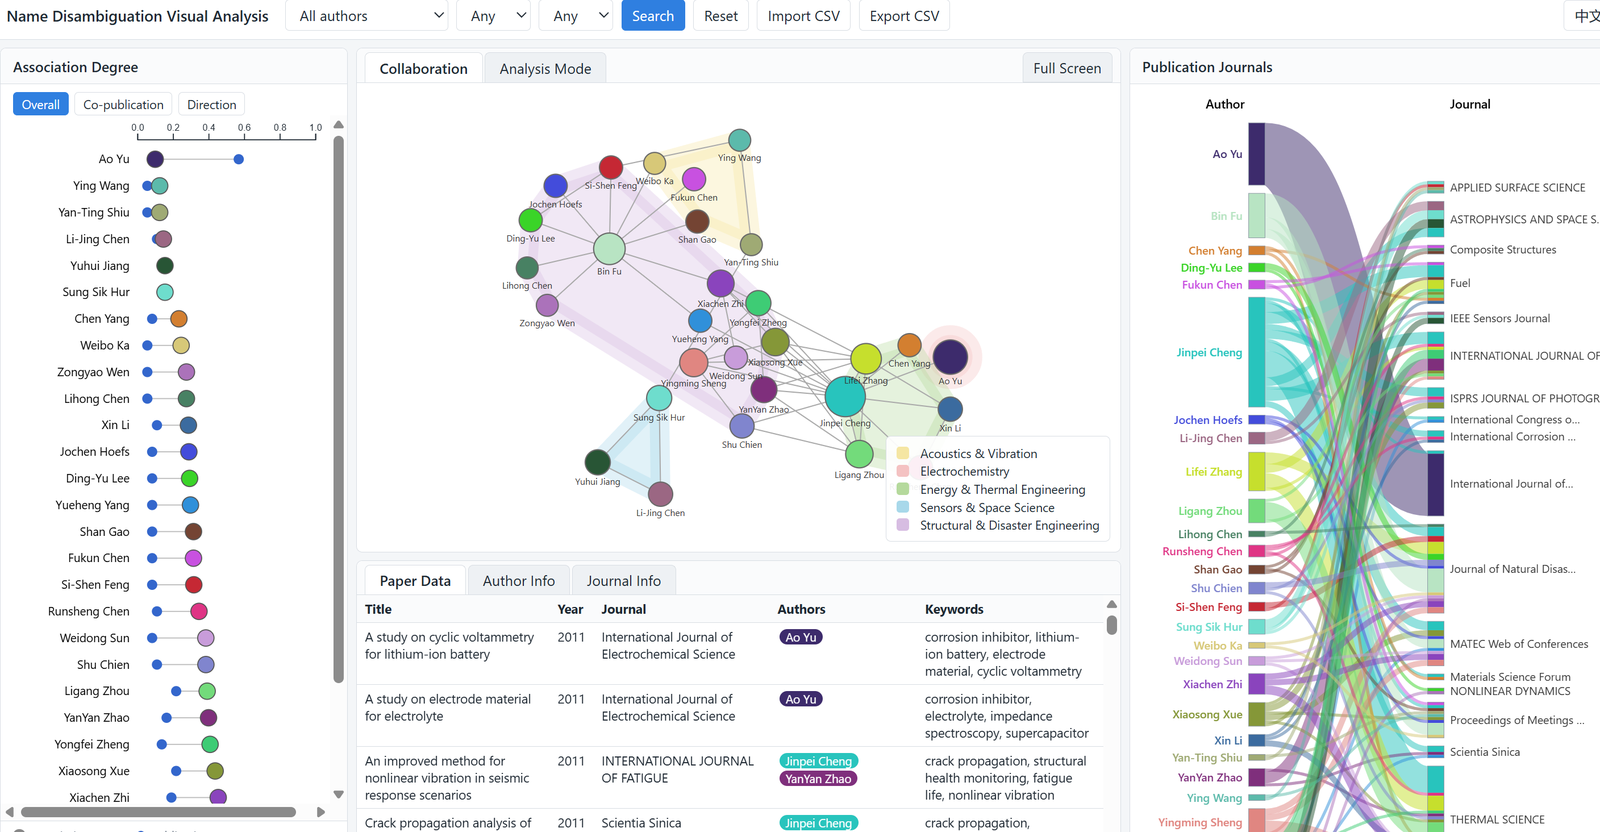
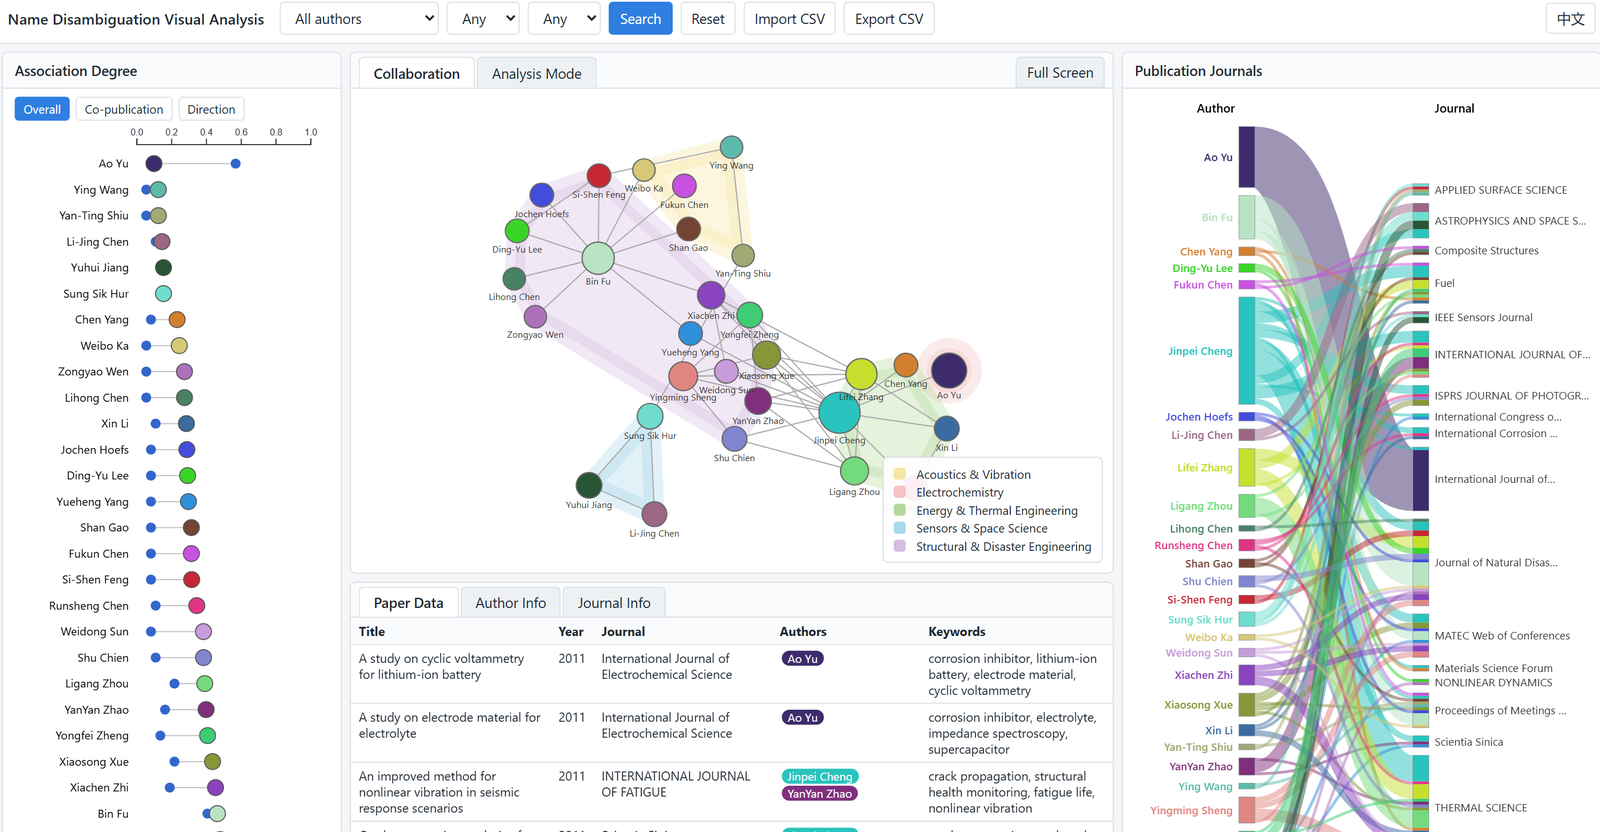
Experience: high-resolution lightbox images
Every tile's lightbox now opens images/hd/<name>, about 2800 px wide,
while the tile thumbnails stay at 1600 px (the HD files load only on
click). Vector paper figures are re-rendered from the PDFs at the same
crop; MVMA-GCN and DualChannel, rasters in their papers, are redrawn.
The Visual Analysis demo is re-captured, so its thumbnail is replaced
to match.

diff --git a/_includes/research.md b/_includes/research.md
@@ -1,6 +1,6 @@
 ## Experience
 
-<div class="paper-box"><div class="paper-box-image"><a class="img-zoom" href="/images/timeroute.png"><img src="/images/timeroute.png" alt="TimeRoute" width="1600" height="908"></a></div>
+<div class="paper-box"><div class="paper-box-image"><a class="img-zoom" href="/images/hd/timeroute.png"><img src="/images/timeroute.png" alt="TimeRoute" width="1600" height="908"></a></div>
 <div class="paper-box-text" markdown="1">
 
 **TimeRoute** ``Under review``
@@ -15,7 +15,7 @@ Which modality matters for a purchase changes over time and differs from user to
 </div>
 </div>
 
-<div class="paper-box"><div class="paper-box-image"><a class="img-zoom" href="/images/time_imprint.png"><img src="/images/time_imprint.png" alt="Time Imprint" width="1600" height="1094" loading="lazy"></a></div>
+<div class="paper-box"><div class="paper-box-image"><a class="img-zoom" href="/images/hd/time_imprint.png"><img src="/images/time_imprint.png" alt="Time Imprint" width="1600" height="1094" loading="lazy"></a></div>
 <div class="paper-box-text" markdown="1">
 
 **Time Imprint** ``Under review``
@@ -30,7 +30,7 @@ Some entities have almost the same text and images, like Napoleon Bonaparte and 
 </div>
 </div>
 
-<div class="paper-box"><div class="paper-box-image"><a class="img-zoom" href="/images/Select-Dont-Train.png"><img src="/images/Select-Dont-Train.png" alt="Select, Don't Train" width="1600" height="898" loading="lazy"></a></div>
+<div class="paper-box"><div class="paper-box-image"><a class="img-zoom" href="/images/hd/Select-Dont-Train.png"><img src="/images/Select-Dont-Train.png" alt="Select, Don't Train" width="1600" height="898" loading="lazy"></a></div>
 <div class="paper-box-text" markdown="1">
 
 **Select, Don't Train** ``ISWC 2026``
@@ -45,7 +45,7 @@ Dual-encoders force candidate retrieval and fine-grained selection into one embe
 </div>
 </div>
 
-<div class="paper-box"><div class="paper-box-image"><a class="img-zoom" href="/images/fusion_training.png"><img src="/images/fusion_training.png" alt="Fusion Training" width="1600" height="904" loading="lazy"></a></div>
+<div class="paper-box"><div class="paper-box-image"><a class="img-zoom" href="/images/hd/fusion_training.png"><img src="/images/fusion_training.png" alt="Fusion Training" width="1600" height="904" loading="lazy"></a></div>
 <div class="paper-box-text" markdown="1">
 
 **Fusion Training** ``ACL 2026 SRW``
@@ -60,7 +60,7 @@ Hybrid models like Qwen3 can answer quickly or think step by step with the same 
 </div>
 </div>
 
-<div class="paper-box"><div class="paper-box-image"><a class="img-zoom" href="/images/beyond_images.png"><img src="/images/beyond_images.png" alt="Beyond Images" width="1600" height="903" loading="lazy"></a></div>
+<div class="paper-box"><div class="paper-box-image"><a class="img-zoom" href="/images/hd/beyond_images.png"><img src="/images/beyond_images.png" alt="Beyond Images" width="1600" height="903" loading="lazy"></a></div>
 <div class="paper-box-text" markdown="1">
 
 **Beyond Images** ``ESWC 2026``
@@ -75,7 +75,7 @@ Curated image sets leave out ambiguous pictures such as logos and symbols, becau
 </div>
 </div>
 
-<div class="paper-box"><div class="paper-box-image"><a class="img-zoom" href="/images/graph_tempcz.png"><img src="/images/graph_tempcz.png" alt="Graph-TempCZ" width="1184" height="328" loading="lazy"></a></div>
+<div class="paper-box"><div class="paper-box-image"><a class="img-zoom" href="/images/hd/graph_tempcz.png"><img src="/images/graph_tempcz.png" alt="Graph-TempCZ" width="1184" height="328" loading="lazy"></a></div>
 <div class="paper-box-text" markdown="1">
 
 **Graph-TempCZ** ``LREC 2026``
@@ -90,7 +90,7 @@ Existing software-mention data has no graph structure and no time axis. With Con
 </div>
 </div>
 
-<div class="paper-box"><div class="paper-box-image"><a class="img-zoom" href="/images/graph_learning_challenges.png"><img src="/images/graph_learning_challenges.png" alt="Graph Learning Challenges" width="1600" height="1204" loading="lazy"></a></div>
+<div class="paper-box"><div class="paper-box-image"><a class="img-zoom" href="/images/hd/graph_learning_challenges.png"><img src="/images/graph_learning_challenges.png" alt="Graph Learning Challenges" width="1600" height="1204" loading="lazy"></a></div>
 <div class="paper-box-text" markdown="1">
 
 **Graph Learning Challenges** ``ESWA 2026``
@@ -105,7 +105,7 @@ Real graph data often has missing parts, is imbalanced, comes from different dom
 </div>
 </div>
 
-<div class="paper-box"><div class="paper-box-image"><a class="img-zoom" href="/images/understanding_el.png"><img src="/images/understanding_el.png" alt="Understanding Entity Linking" width="1600" height="900" loading="lazy"></a></div>
+<div class="paper-box"><div class="paper-box-image"><a class="img-zoom" href="/images/hd/understanding_el.png"><img src="/images/understanding_el.png" alt="Understanding Entity Linking" width="1600" height="900" loading="lazy"></a></div>
 <div class="paper-box-text" markdown="1">
 
 **Understanding Entity Linking** ``EKAW 2024``
@@ -120,7 +120,7 @@ Network analysis of tweets depends on which entities a linker extracts, and for 
 </div>
 </div>
 
-<div class="paper-box"><div class="paper-box-image"><a class="img-zoom" href="/images/cycle.png"><img src="/images/cycle.png" alt="CYCLE and TIGER" width="1600" height="573" loading="lazy"></a></div>
+<div class="paper-box"><div class="paper-box-image"><a class="img-zoom" href="/images/hd/cycle.png"><img src="/images/cycle.png" alt="CYCLE and TIGER" width="1600" height="573" loading="lazy"></a></div>
 <div class="paper-box-text" markdown="1">
 
 **CYCLE & TIGER** ``CIKM & ECAI 2024``
@@ -135,7 +135,7 @@ An entity linker is trained on one snapshot of the knowledge graph and then used
 </div>
 </div>
 
-<div class="paper-box"><div class="paper-box-image"><a class="img-zoom" href="/images/runcl.png"><img src="/images/runcl.png" alt="RUNCL" width="1600" height="908" loading="lazy"></a></div>
+<div class="paper-box"><div class="paper-box-image"><a class="img-zoom" href="/images/hd/runcl.png"><img src="/images/runcl.png" alt="RUNCL" width="1600" height="908" loading="lazy"></a></div>
 <div class="paper-box-text" markdown="1">
 
 **RUNCL** ``Physica A 2024``
@@ -150,7 +150,7 @@ Node degrees follow a power law, so missing or wrong edges hurt the sparsely con
 </div>
 </div>
 
-<div class="paper-box"><div class="paper-box-image"><a class="img-zoom" href="/images/mvma_gcn.png"><img src="/images/mvma_gcn.png" alt="MVMA-GCN" width="1600" height="914" loading="lazy"></a></div>
+<div class="paper-box"><div class="paper-box-image"><a class="img-zoom" href="/images/hd/mvma_gcn.png"><img src="/images/mvma_gcn.png" alt="MVMA-GCN" width="1600" height="914" loading="lazy"></a></div>
 <div class="paper-box-text" markdown="1">
 
 **MVMA-GCN** ``EAAI 2023``
@@ -165,7 +165,7 @@ Real networks have several kinds of links, such as co-author, co-keyword and co-
 </div>
 </div>
 
-<div class="paper-box"><div class="paper-box-image"><a class="img-zoom" href="/images/Visual_Analysis.png"><img src="/images/Visual_Analysis.png" alt="Visual Analysis" width="1600" height="832" loading="lazy"></a></div>
+<div class="paper-box"><div class="paper-box-image"><a class="img-zoom" href="/images/hd/Visual_Analysis.png"><img src="/images/Visual_Analysis.png" alt="Visual Analysis" width="1600" height="832" loading="lazy"></a></div>
 <div class="paper-box-text" markdown="1">
 
 **Visual Analysis** ``JCAD 2022``
@@ -180,7 +180,7 @@ Research offices spend a lot of manual work separating authors who share a name,
 </div>
 </div>
 
-<div class="paper-box"><div class="paper-box-image"><a class="img-zoom" href="/images/dual_channel.png"><img src="/images/dual_channel.png" alt="DualChannel" width="1601" height="723" loading="lazy"></a></div>
+<div class="paper-box"><div class="paper-box-image"><a class="img-zoom" href="/images/hd/dual_channel.png"><img src="/images/dual_channel.png" alt="DualChannel" width="1601" height="723" loading="lazy"></a></div>
 <div class="paper-box-text" markdown="1">
 
 **DualChannel** ``Information 2021``
@@ -195,7 +195,7 @@ When authors share a name, their publication records get mixed up. With Xin Zhen
 </div>
 </div>
 
-<div class="paper-box"><div class="paper-box-image"><a class="img-zoom" href="/images/research_overview.png"><img src="/images/research_overview.png" alt="Research Overview slides" width="1600" height="900" loading="lazy"></a></div>
+<div class="paper-box"><div class="paper-box-image"><a class="img-zoom" href="/images/hd/research_overview.png"><img src="/images/research_overview.png" alt="Research Overview slides" width="1600" height="900" loading="lazy"></a></div>
 <div class="paper-box-text" markdown="1">
 
 **Research Overview** ``Slides``
